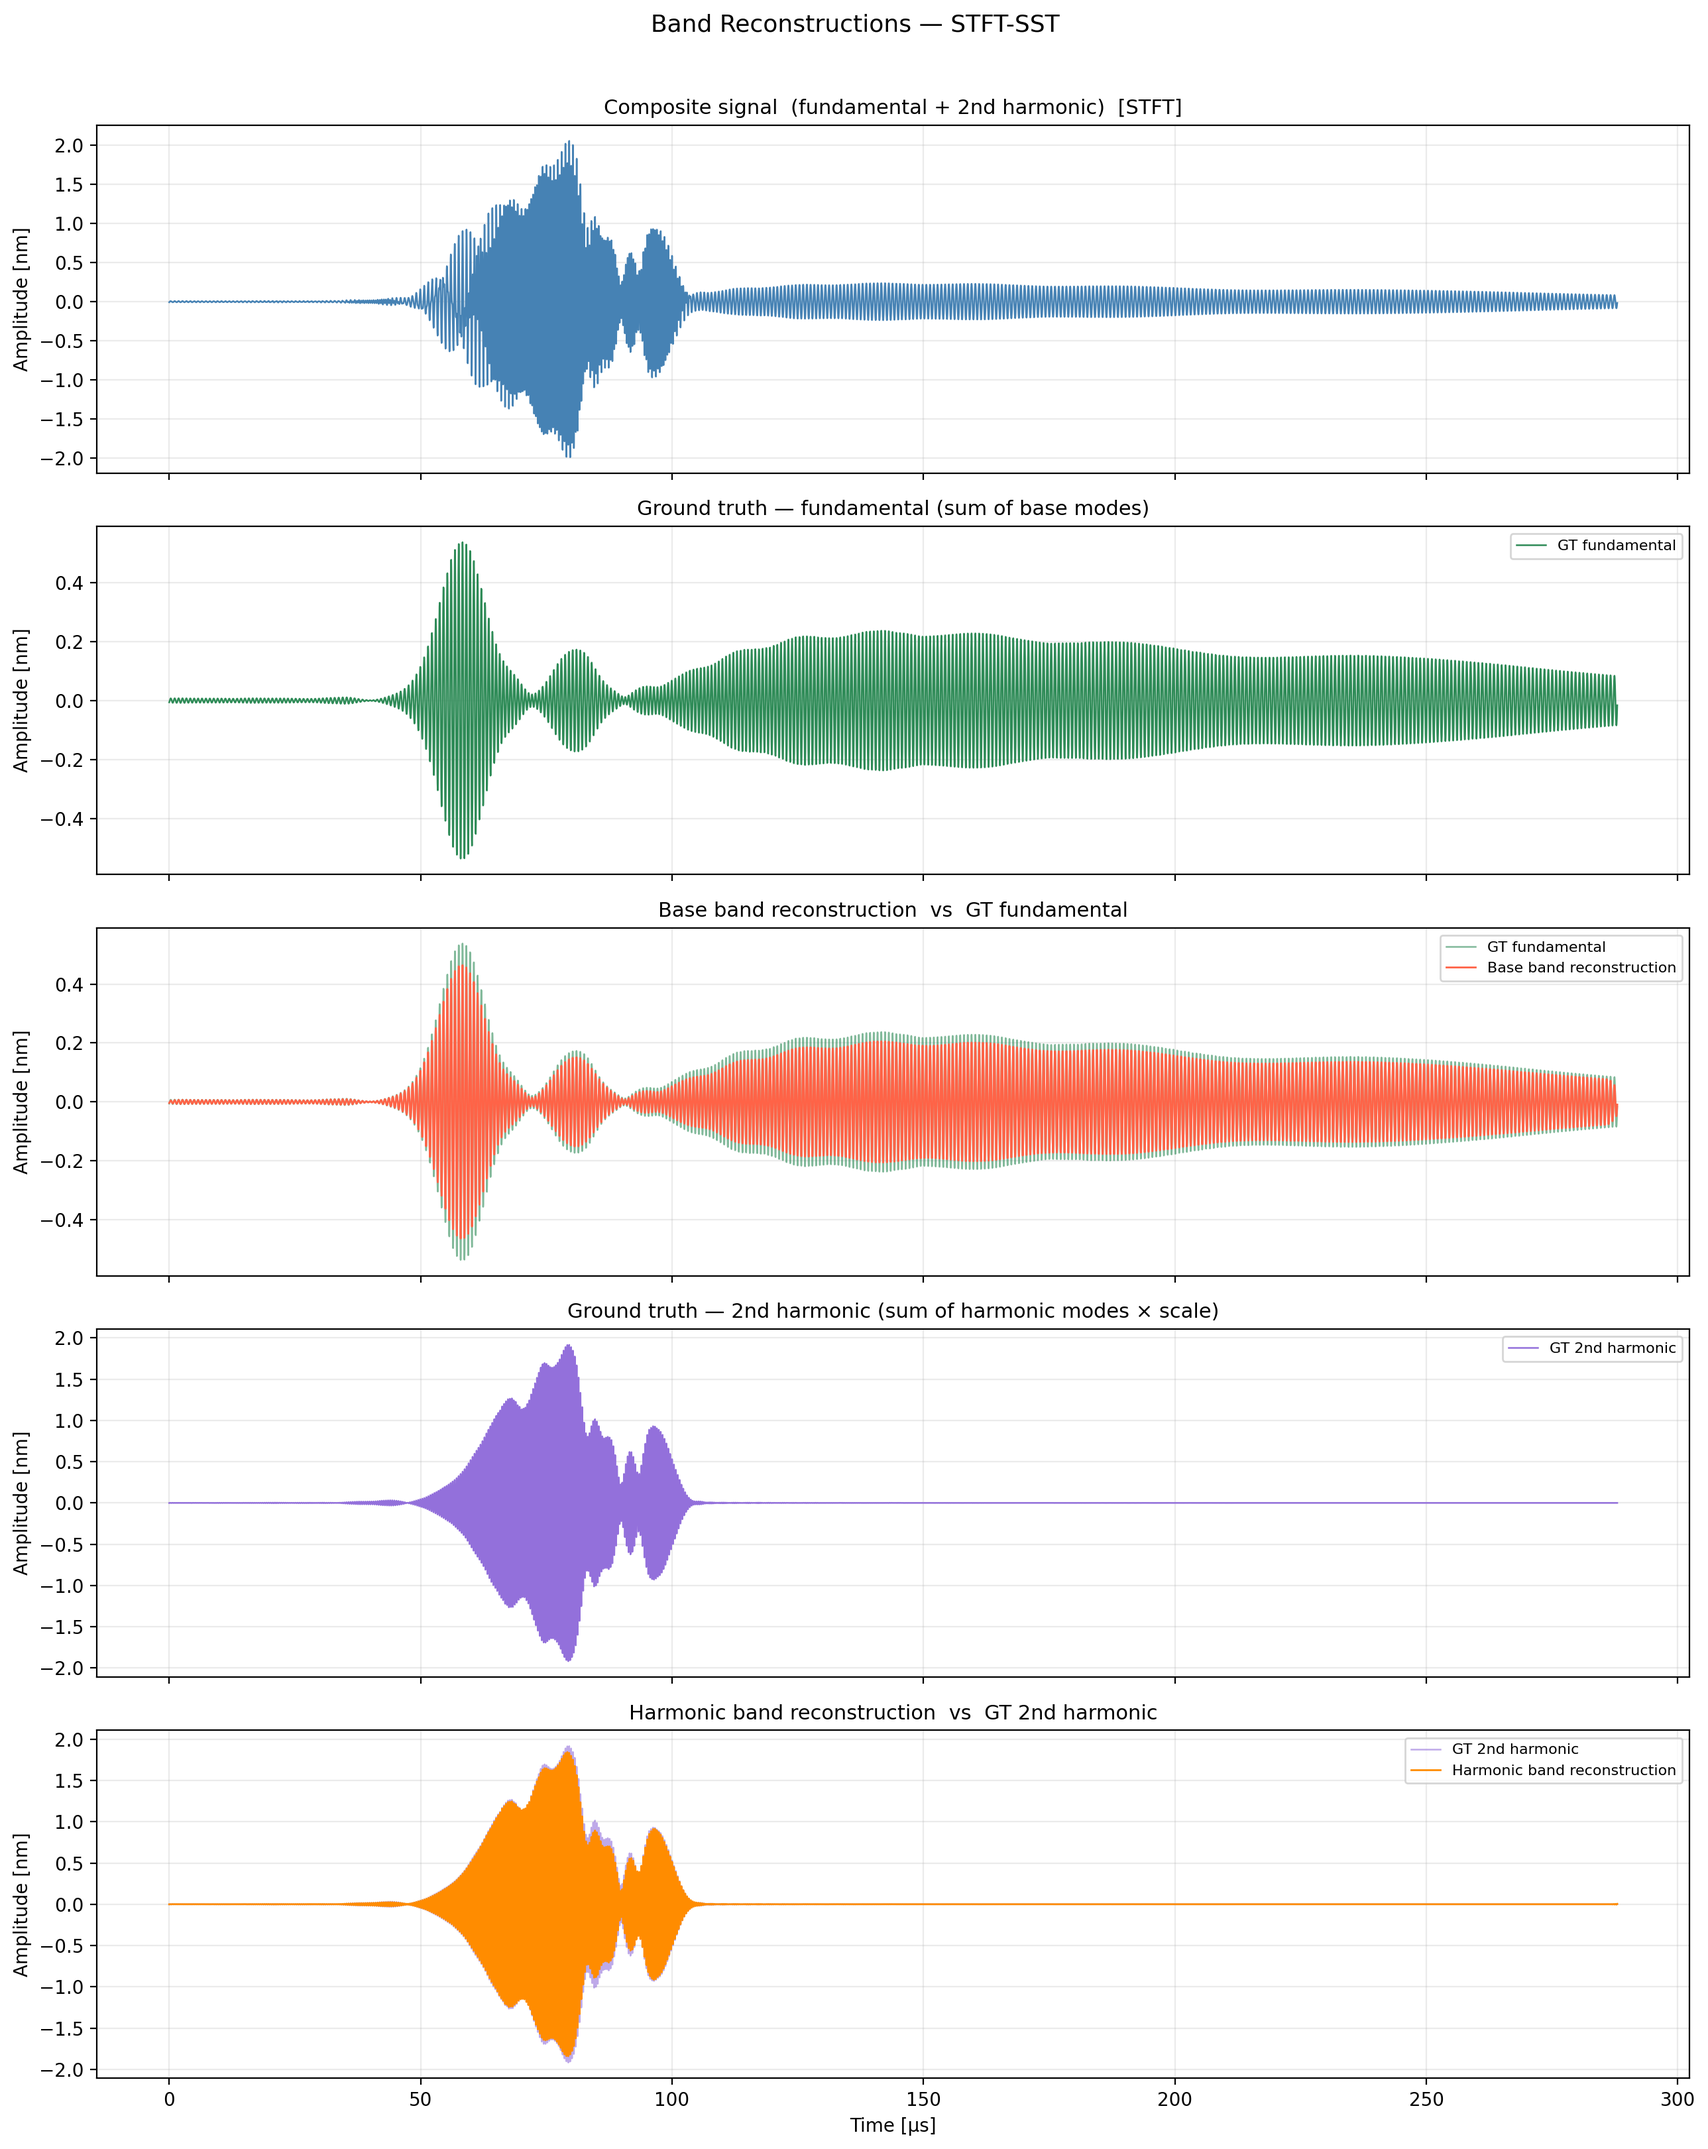
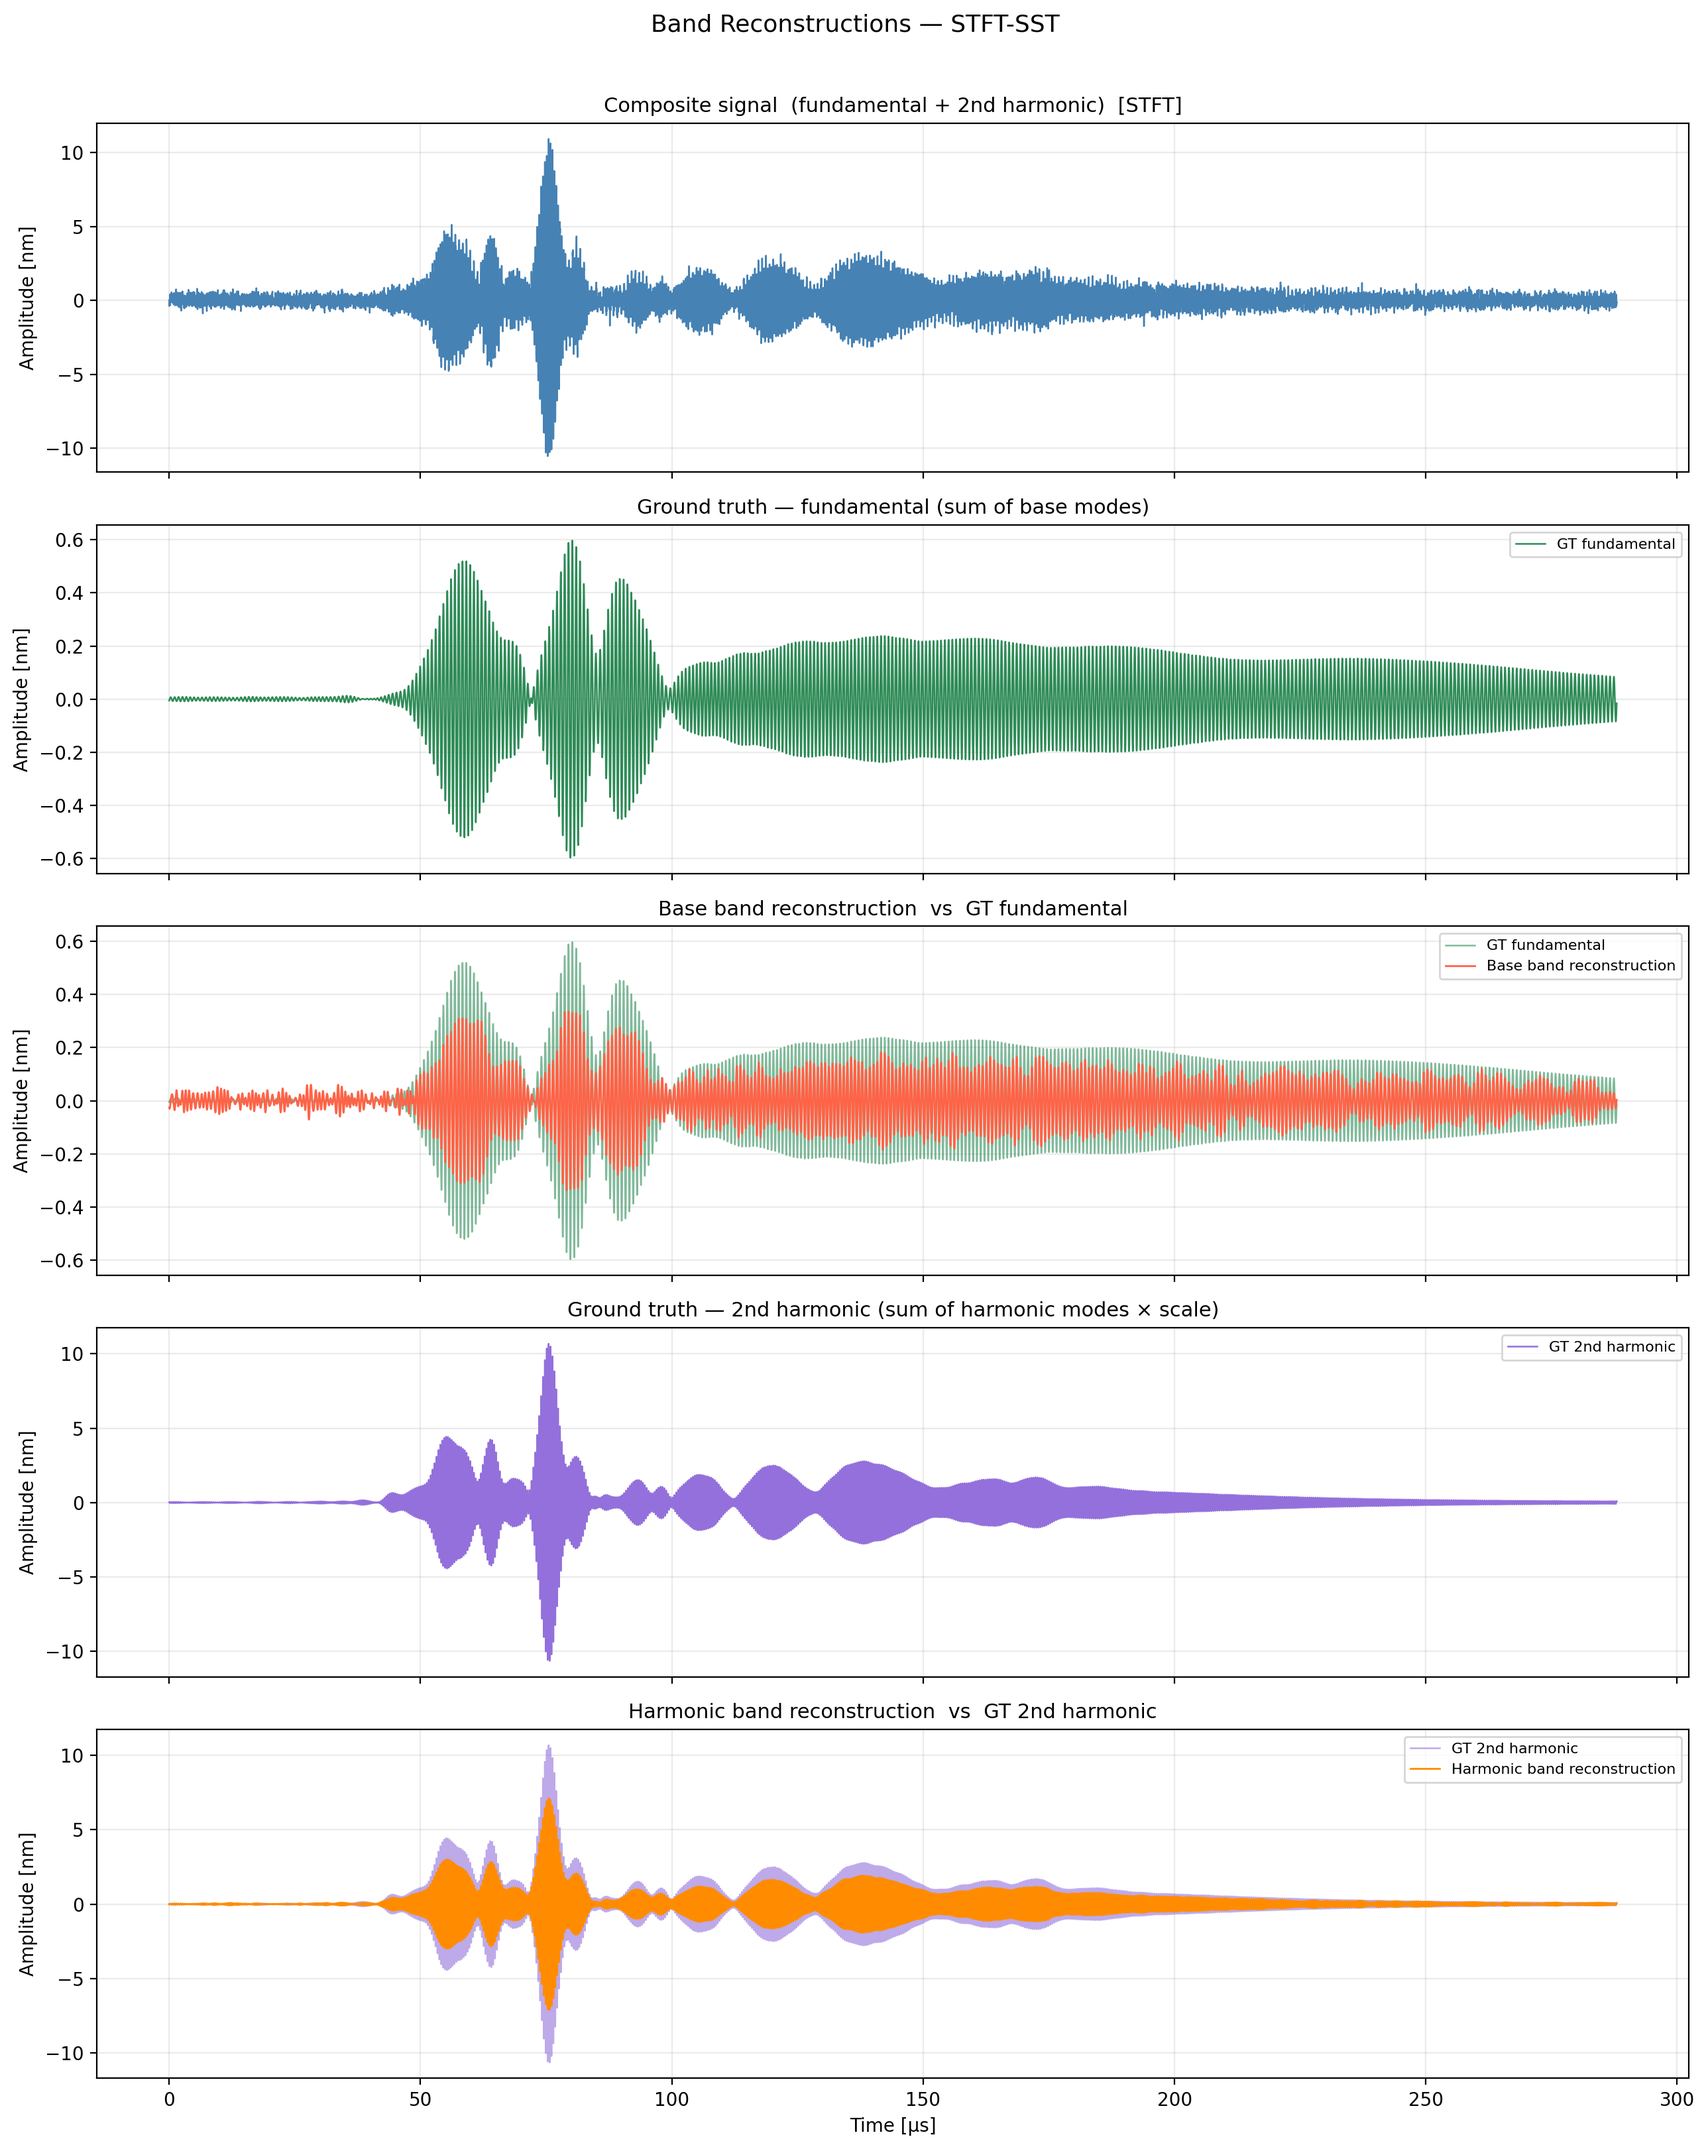
stft

diff --git a/Energy_conserv.py b/Energy_conserv.py
@@ -9,6 +9,7 @@ import re
 import decomp as d
 from transforms import Hilbert_Huang_processing 
 from transforms import wavelet_processing
+from transforms import SST_v2_processing
 
 
 
@@ -48,7 +49,7 @@ modes_base = ["S2 Propagated signal (nm)", "A1 Propagated signal (nm)",
                   ]
 
 
-noise_level = 1.5
+noise_level = 0
  #Noise Level: 0 == 0%, 1.5 == 150%, should not be larger than 1.5
 beta = 6 #Non_Linearity Parameter: Realistic Range 6-12
 
@@ -111,6 +112,50 @@ fig, ax, H, T, F = Hilbert_Huang_processing.plot_hilbert_spectrum(inst_freq, ins
 Recon_harmonic_H = Hilbert_Huang_processing.bandpass_hilbert(imfs, fs, f_min_harmonic, f_max_harmonic)
 Recon_base_H = Hilbert_Huang_processing.bandpass_hilbert(imfs, fs, f_min_base, f_max_base)
 
+# Reconstruction STFT
+def STFT(t, signal):
+    # --- time-frequency analysis -----------------------------------------------
+    f_min_analyse = 1.0e6      # Hz — lower bound for TF display
+    f_max_analyse = 4.5e6      # Hz — upper bound for TF display
+    n_freq        = 400        # frequency bins (CWT)
+
+    band_min_base      = 1_100_000   # Hz
+    band_max_base      = 1_500_000
+    band_min_harmonic  = 2_300_000
+    band_max_harmonic  = 2_900_000
+
+    # --- STFT parameters (from blind-decomp stage 1) ---------------------------
+    stft_win_len = 128     # samples
+    stft_hop_len = 2
+    stft_n_fft   = 512
+
+
+    # --- band reconstructions ---
+    recon_base_stft = SST_v2_processing.reconstruct_band_stft(
+        t, signal,
+        band_min=band_min_base,
+        band_max=band_max_base,
+        fmin=f_min_analyse,
+        fmax=f_max_analyse,
+        win_len=stft_win_len,
+        hop_len=stft_hop_len,
+        n_fft=stft_n_fft,
+    )
+
+    recon_harmonic_stft = SST_v2_processing.reconstruct_band_stft(
+        t, signal,
+        band_min=band_min_harmonic,
+        band_max=band_max_harmonic,
+        fmin=f_min_analyse,
+        fmax=f_max_analyse,
+        win_len=stft_win_len,
+        hop_len=stft_hop_len,
+        n_fft=stft_n_fft,
+    )
+
+    return recon_base_stft, recon_harmonic_stft
+
+recon_base_stft, recon_harmonic_stft = STFT(t, signal)
 # Reconstruction Wavelet
 
 #wavelet_processing.wavelet_scalogram(t, signal, wavelet = wavelet, name= plot_name2, fmin_mhz= f_min_analyse, fmax_mhz= f_max_analyse, n_freqs= n_freq)
@@ -131,24 +176,55 @@ ax[1].set_title("Harmonic Reconstruction")
 plt.tight_layout()
 plt.show()
 
+
 recon_H = Recon_base_H + Recon_harmonic_H
+
+
+recon_STFT = recon_base_stft + recon_harmonic_stft
 
 en = ((np.abs(recon_H-signal2))**2)/(np.sum(signal2**2))
 
+en_STFT = ((np.abs(recon_STFT-signal2))**2)/(np.sum(signal2**2))
+
 fig, axes = plt.subplots(2, 1, figsize=(10, 4))
 
+# # First subplot
+# axes[0].plot(t, en)
+# axes[0].set_title("Energy Error", fontsize=20)
+# axes[0].set_xlabel("time [s]", fontsize=19)
+# axes[0].set_ylabel("Error [-]", fontsize=18)
+# axes[0].set_xlim(0, 140)
+# # axes[0].set_ylim(0, 0.0002)
+# axes[0].tick_params(axis='both', which='major', labelsize=18)
+
+# # Second subplot
+# axes[1].plot(t, signal2, "-", label="Original Signal without Noise")
+# axes[1].plot(t, recon_H, "-")
+# axes[1].set_title("Original Signal vs Reconstructed Signal", fontsize=20)
+# axes[1].set_xlabel("time [s]", fontsize=19)
+# axes[1].set_ylabel("Amplitude [nm]", fontsize=18)
+# axes[1].set_xlim(0, 140)
+# axes[1].set_ylim(-3, 3)
+# axes[1].tick_params(axis='both', which='major', labelsize=18)
+# # Adjust layout
+# plt.tight_layout()
+
+# # Show figure
+# plt.show()
+
+
+#STFT Reconstruction
 # First subplot
-axes[0].plot(t, en)
+axes[0].plot(t, en_STFT)
 axes[0].set_title("Energy Error", fontsize=20)
 axes[0].set_xlabel("time [s]", fontsize=19)
 axes[0].set_ylabel("Error [-]", fontsize=18)
 axes[0].set_xlim(0, 140)
-# axes[0].set_ylim(0, 0.0002)
 axes[0].tick_params(axis='both', which='major', labelsize=18)
 
 # Second subplot
-axes[1].plot(t, signal2, "-", label="Original Signal without Noise")
-axes[1].plot(t, recon_H, "-")
+axes[1].plot(t, signal2, "-", label="Original Signal without")
+axes[1].plot(t, recon_STFT, "-")
 axes[1].set_title("Original Signal vs Reconstructed Signal", fontsize=20)
 axes[1].set_xlabel("time [s]", fontsize=19)
 axes[1].set_ylabel("Amplitude [nm]", fontsize=18)
@@ -157,8 +233,6 @@ axes[1].set_ylim(-3, 3)
 axes[1].tick_params(axis='both', which='major', labelsize=18)
 # Adjust layout
 plt.tight_layout()
-
-
 
 # Show figure
 plt.show()
